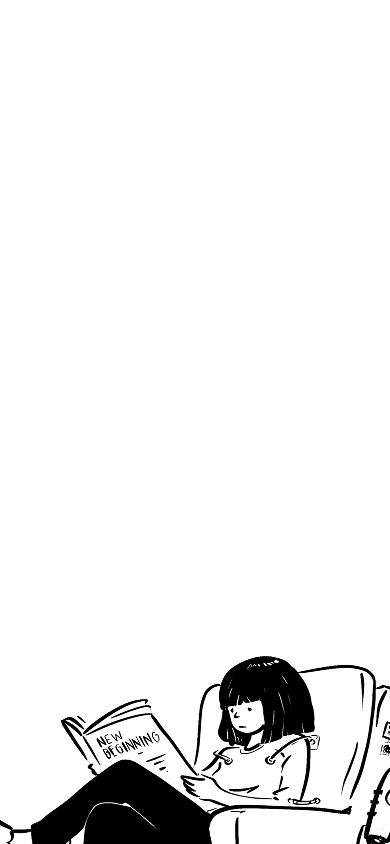
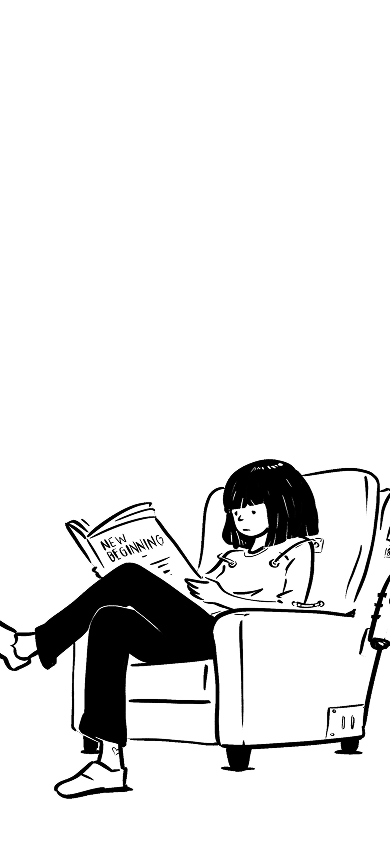
feat: :sparkles: Página home terminada

Changed region(s): [[0.0, 0.5237, 1.0, 1.0]]

diff --git a/src/css/style.css b/src/css/style.css
@@ -107,13 +107,16 @@ main{
 
 footer {
     /* background-color: aqua; */
-    height: 218px;
+    height: 425px;
     position: relative;
+    overflow: hidden;
     
 }
 
 footer img {
+    /* background-color: brown; */
     position: absolute;
     bottom: 0;
-    z-index: -1;
+    width: 100%;
+    
 }
